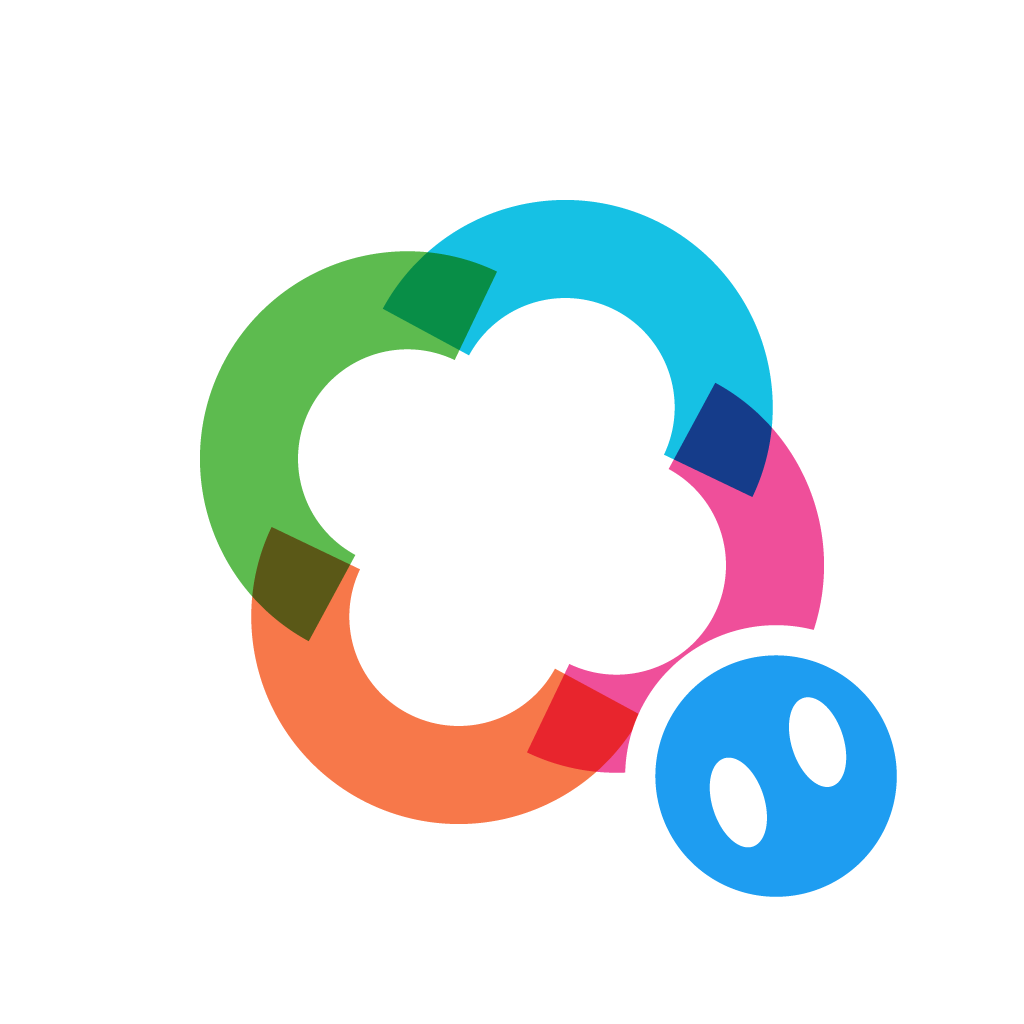
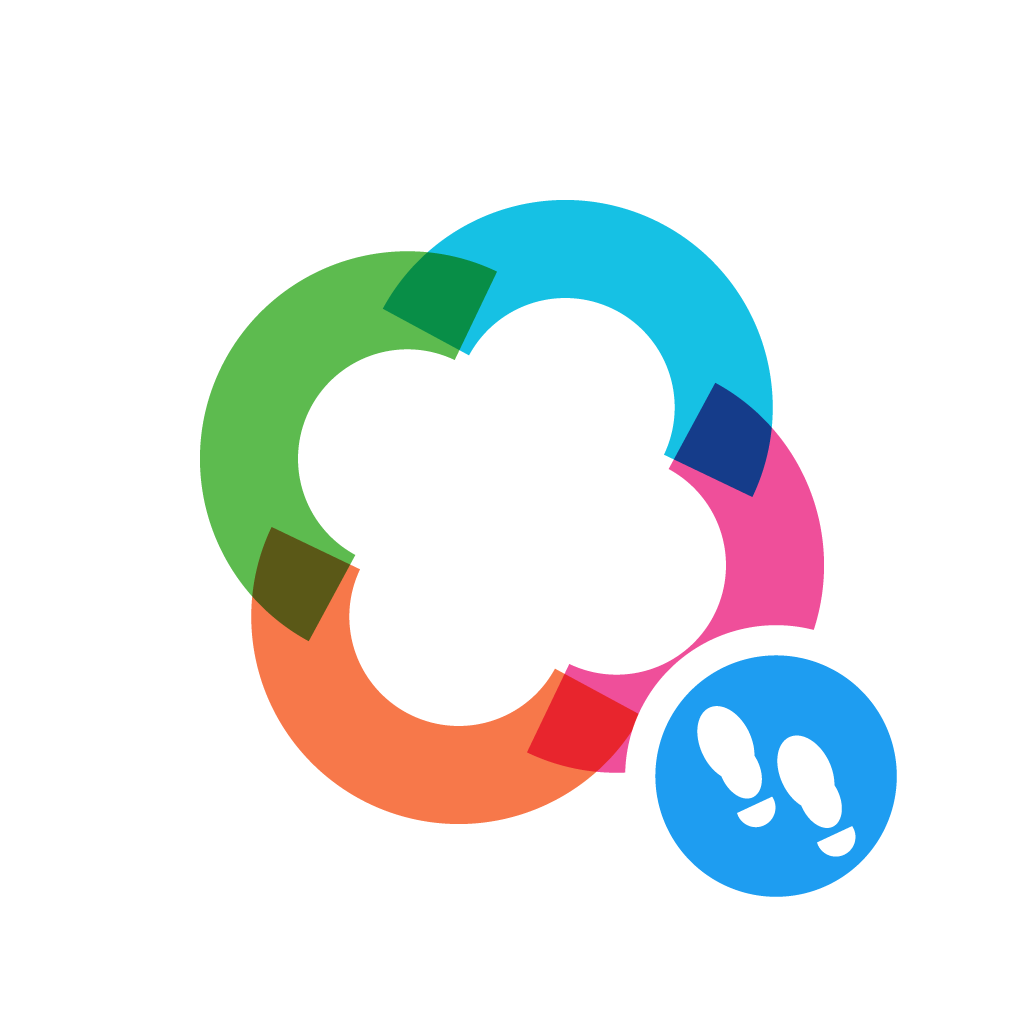
feat(fe): 아이콘 배지를 신발 자국으로 바꾸고 로그인 화면 로고에 반영
아이콘 배지 속 타원 두 개가 눈처럼 보여 얼굴로 읽히는 문제가 있어, 신발 자국 두 개로 바꾼다.

- 자국 하나 = 앞창(타원 두 개) + 조금 떨어진 반원 뒤축
- 두 자국을 엇갈려 놓고 -25° 기울여 왼쪽 위(로고 쪽)로 걸어가게 함
- mobile/brand/render-icons.mjs로 원본·PWA 아이콘 전체를 다시 생성
- 앱 화면 배지(brand.tsx FootBadge)를 같은 값으로 바꾸고, BrandMark에 badge 옵션 추가
- 로그인 화면 로고를 '로고 + 발자국 배지'(96px, 화면 낭독 이름 '해피워크')로 변경

검증: npm run typecheck:mobile 통과. 1024px 아이콘 이미지와 개발 서버 로그인 화면에서
신발 자국 배지 표시를 확인했다. 실제 기기 확인은 하지 않았다.

Changed region(s): [[0.6562, 0.6562, 0.8438, 0.8438]]

diff --git a/mobile/src/ui/components/brand.tsx b/mobile/src/ui/components/brand.tsx
@@ -24,13 +24,38 @@ const PETALS = [
   ['ll', '#F7784A', 'M122.82 147.70A42 42 0 0 1 47.99 109.58'],
 ] as const;
 
-/** 움직이지 않는 로고. label을 주면 화면 낭독기가 로고 이름을 읽는다. */
-export function BrandMark({ size = 40, label }: { size?: number; label?: string }) {
+/**
+ * 해피워크 발자국 배지(앱 아이콘 D안). 로고 오른쪽 아래 (170,170)에 붙는 하늘색 원 안의 흰 신발 자국 두 개.
+ * 자국 하나는 앞창(넓은 앞쪽 타원 + 좁아지는 아치 타원)과 조금 떨어진 반원 뒤축이다.
+ * 뒷발은 오른쪽 아래, 앞발은 왼쪽 위에 엇갈려 놓고 -25° 기울여 왼쪽 위(로고 쪽)로 걸어가게 한다.
+ * 값은 mobile/brand/render-icons.mjs의 SHOE와 같다(아이콘 파일과 같은 모양).
+ */
+const SHOE_AT = [[180.6, 174.9], [159.4, 167.1]] as const;
+function FootBadge({ className }: { className?: string }) {
+  return (
+    <g className={className}>
+      <circle cx="170" cy="170" r="36" fill="#1E9DF1" stroke="#FFFFFF" strokeWidth="8" />
+      {SHOE_AT.map(([x, y]) => (
+        <g key={x} fill="#FFFFFF" transform={`translate(${x} ${y}) rotate(-25) scale(0.8)`}>
+          <ellipse cx="0" cy="-8" rx="8.5" ry="13" />
+          <ellipse cx="0.5" cy="2" rx="6.5" ry="10" />
+          <path d="M6.42 14.5A6.5 6.5 0 1 1 -6.42 14.5Z" />
+        </g>
+      ))}
+    </g>
+  );
+}
+
+/**
+ * 움직이지 않는 로고. label을 주면 화면 낭독기가 로고 이름을 읽는다.
+ * badge를 켜면 해피워크 앱 아이콘(D안)처럼 발자국 배지를 붙인다.
+ */
+export function BrandMark({ size = 40, label, badge = false }: { size?: number; label?: string; badge?: boolean }) {
   return (
     <svg
       width={size}
       height={size}
-      viewBox="12 12 176 176"
+      viewBox={badge ? '-14 -14 228 228' : '12 12 176 176'}
       role={label ? 'img' : undefined}
       aria-label={label}
       aria-hidden={label ? undefined : true}
@@ -38,6 +63,7 @@ export function BrandMark({ size = 40, label }: { size?: number; label?: string 
       {PETALS.map(([key, color, d]) => (
         <path key={key} className="hm-petal" stroke={color} d={d} />
       ))}
+      {badge && <FootBadge />}
     </svg>
   );
 }
@@ -65,8 +91,6 @@ export function LoadingMark({ size = 22, className }: { size?: number; className
   );
 }
 
-const SOLE = 'M0 -20C9 -20 12 -9 11 3C10 14 7 21 0 21C-7 21 -10 14 -11 3C-12 -9 -9 -20 0 -20Z';
-
 /**
  * 시작 화면용 로고. 흩어진 조각이 돌며 모여 로고가 된다(한 번만 재생).
  * badge를 켜면 앱 아이콘(D안)처럼 로고가 모인 뒤 오른쪽 아래에 하늘색 발자국 배지가 톡 붙는다.
@@ -80,13 +104,7 @@ export function IntroMark({ size = 168, badge = false }: { size?: number; badge?
           <path className="hm-petal" stroke={color} d={d} />
         </g>
       ))}
-      {badge && (
-        <g className="hm-badge">
-          <circle cx="170" cy="170" r="36" fill="#1E9DF1" stroke="#FFFFFF" strokeWidth="8" />
-          <path fill="#FFFFFF" transform="translate(160 177) rotate(-18) scale(0.6)" d={SOLE} />
-          <path fill="#FFFFFF" transform="translate(181 161) rotate(-18) scale(0.6)" d={SOLE} />
-        </g>
-      )}
+      {badge && <FootBadge className="hm-badge" />}
     </svg>
   );
 }

diff --git a/mobile/src/ui/pages/LoginPage.tsx b/mobile/src/ui/pages/LoginPage.tsx
@@ -39,7 +39,7 @@ export function LoginPage() {
   return (
     <main className="screen" style={{ padding: '80px 24px 40px', display: 'flex', flexDirection: 'column' }}>
       <section style={{ display: 'flex', flexDirection: 'column', alignItems: 'center', textAlign: 'center' }}>
-        <BrandMark size={80} label="해피에이징" />
+        <BrandMark size={96} label="해피워크" badge />
         <h1 style={{ marginTop: 24, fontSize: 28, fontWeight: 800, letterSpacing: '-0.02em' }}>{APP_NAME}</h1>
         <p style={{ marginTop: 8, fontSize: 16 }} className="muted">{APP_TAGLINE}</p>
       </section>

diff --git a/mobile/brand/README.md b/mobile/brand/README.md
@@ -16,7 +16,7 @@ node mobile/brand/render-icons.mjs
 | `happywalk-icon-maskable.svg`, `happywalk-icon-maskable-1024.png` | 흰 꽉 찬 사각형 바탕. 기기가 원·둥근 사각 등으로 잘라도 배지까지 남도록 내용을 폭의 62%로 줄임 |
 | `happywalk-icon-foreground.svg`, `happywalk-icon-foreground-432.png` | 안드로이드 적응형 아이콘의 전경(로고와 배지만, 바탕 투명, 내용 폭 50%). 배경은 흰색 |
 
-PNG의 발바닥 모양은 SVG의 발바닥 곡선을 타원으로 근사해 그린다(작은 크기에서는 구분되지 않는다).
+배지 속 그림은 신발 자국 두 개다. 자국 하나는 앞창(타원 두 개)과 조금 떨어진 반원 뒤축이며, 두 자국을 엇갈려 왼쪽 위(로고 쪽)로 걸어가게 놓는다. 앱 화면의 로고(`src/ui/components/brand.tsx`의 `FootBadge`)도 같은 값을 쓴다(스크립트의 `SHOE`).
 
 ## PWA가 쓰는 파일(`mobile/public/`)
 
